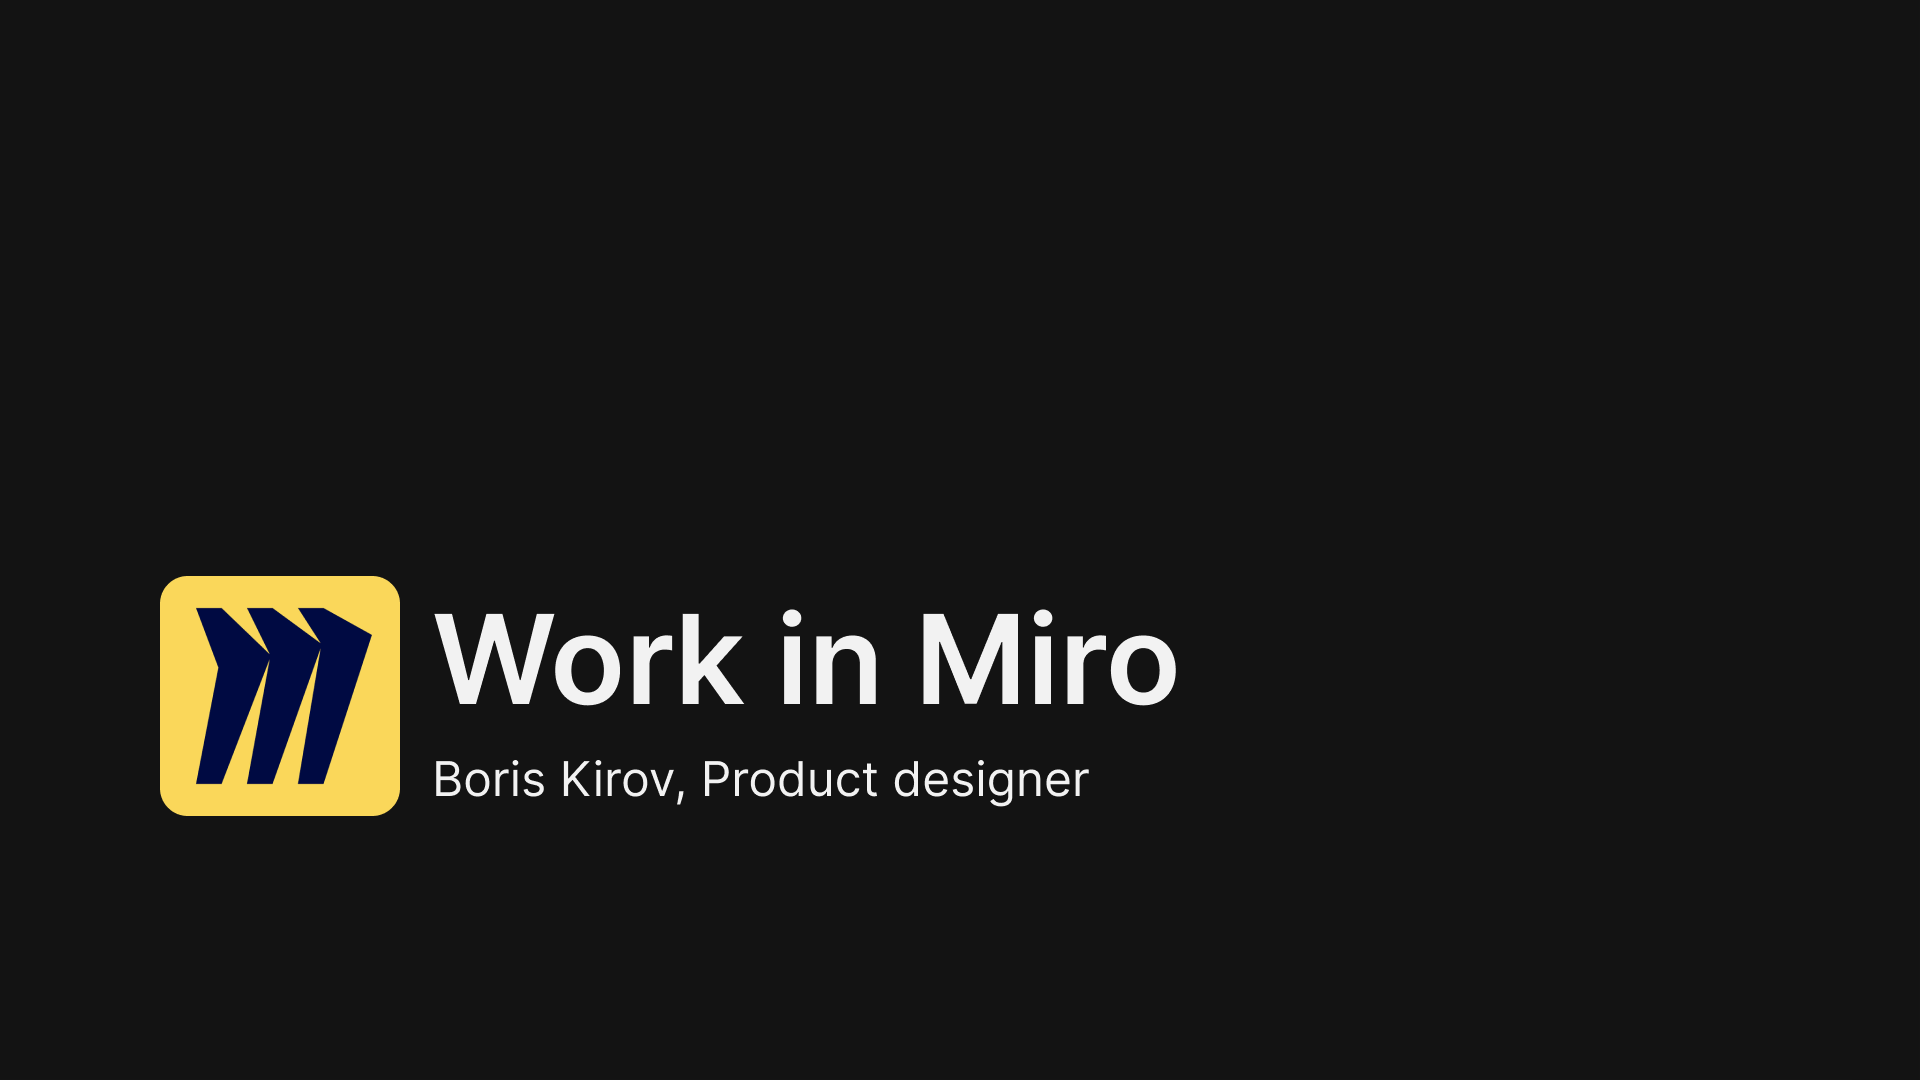
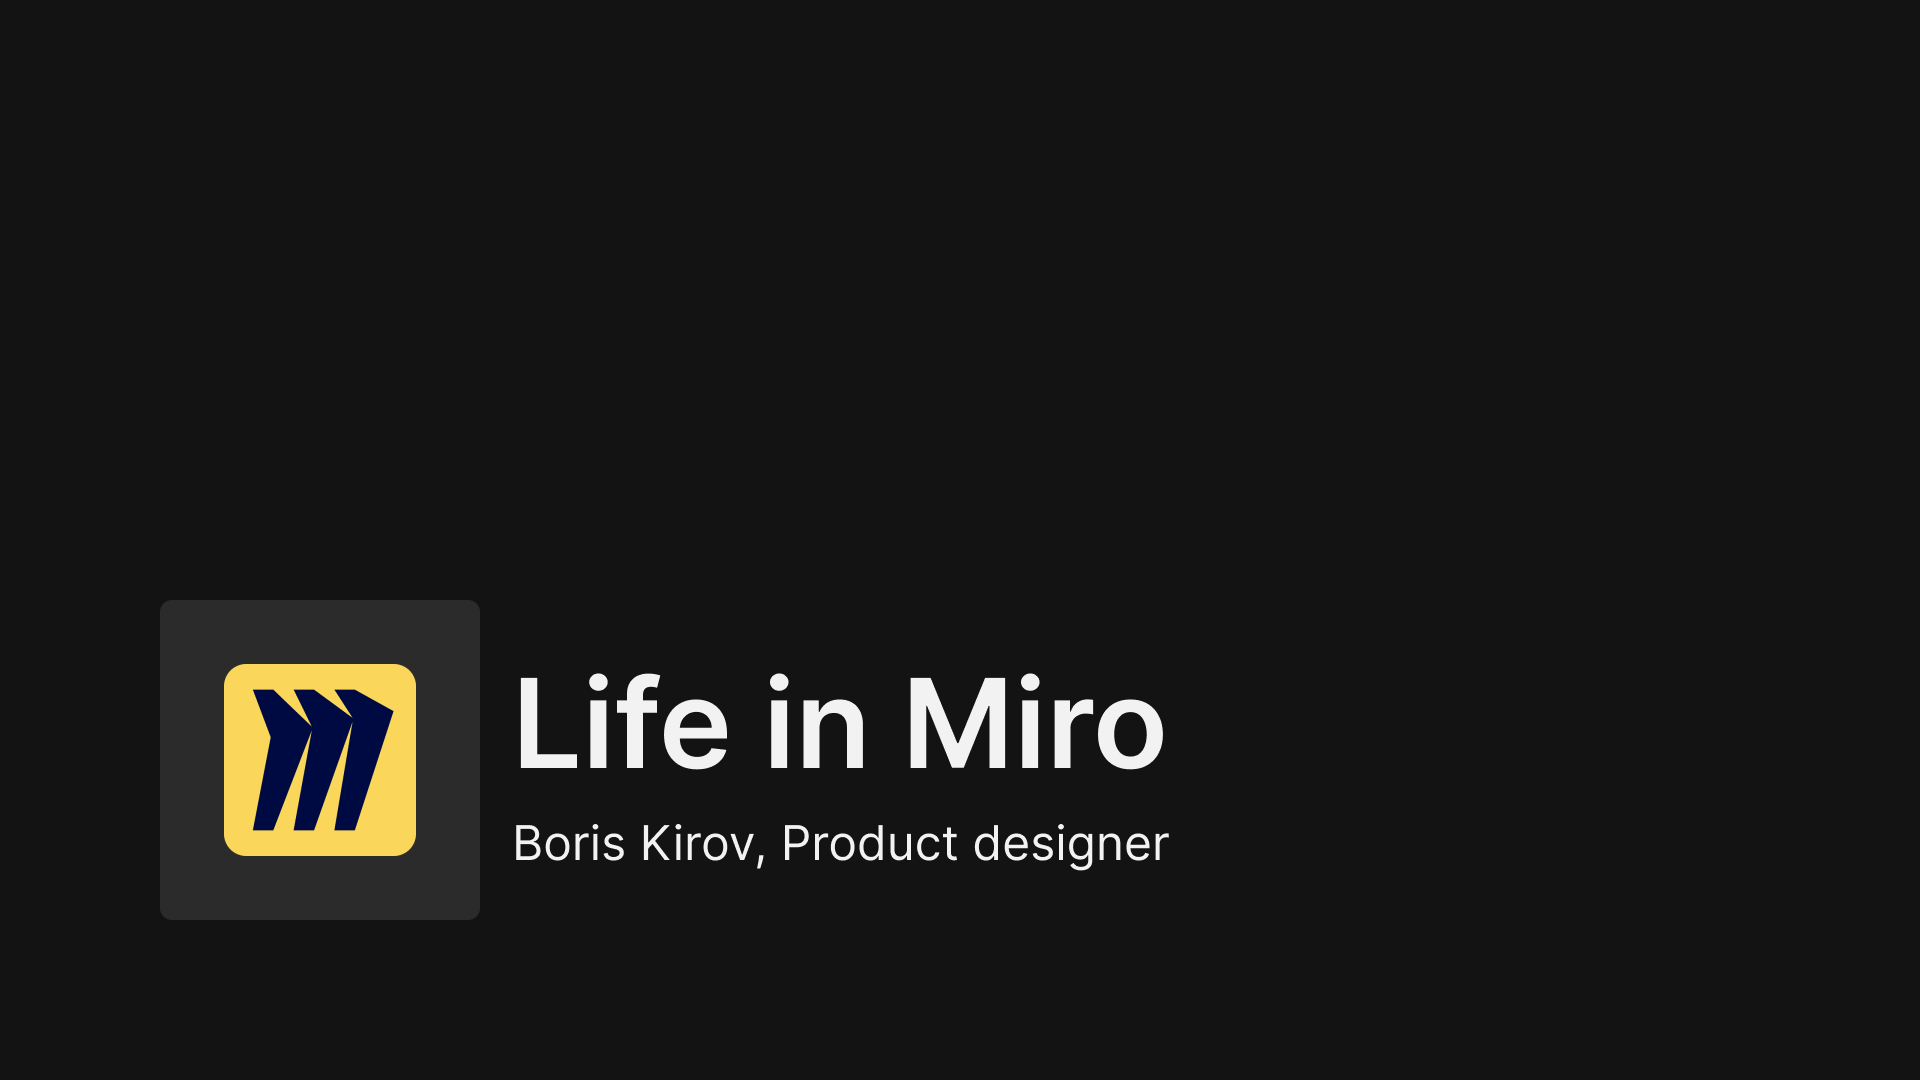
updated metatags

Changed region(s): [[0.0625, 0.5194, 0.625, 0.7944]]

diff --git a/posts/life-at-miro.md b/posts/life-at-miro.md
@@ -3,7 +3,7 @@ title: Life at Miro
 description: "Working as a leading platform designer for Miro on topics like frameworks, core, developer experience, app experience and design system & accesibility during their hypergrowht of 2020-2022."
 date: "02-21-2022"
 type: "Case study"
-image: "https://www.boriskirov.me/DCI-P3-1.png"
+image: "https://www.boriskirov.me/meta-tag-miro.png"
 ---
 
 [Miro](https://www.miro.com) is an online collaborative whiteboard platform, a canvas-based product that focuses on collaboration and teamwork. As of today, Miro is an established leader in visual collaboration. My work there stretches from all aspects of design, from product definition, strategy alignment, feature releases, and launches to experimentation and research.
